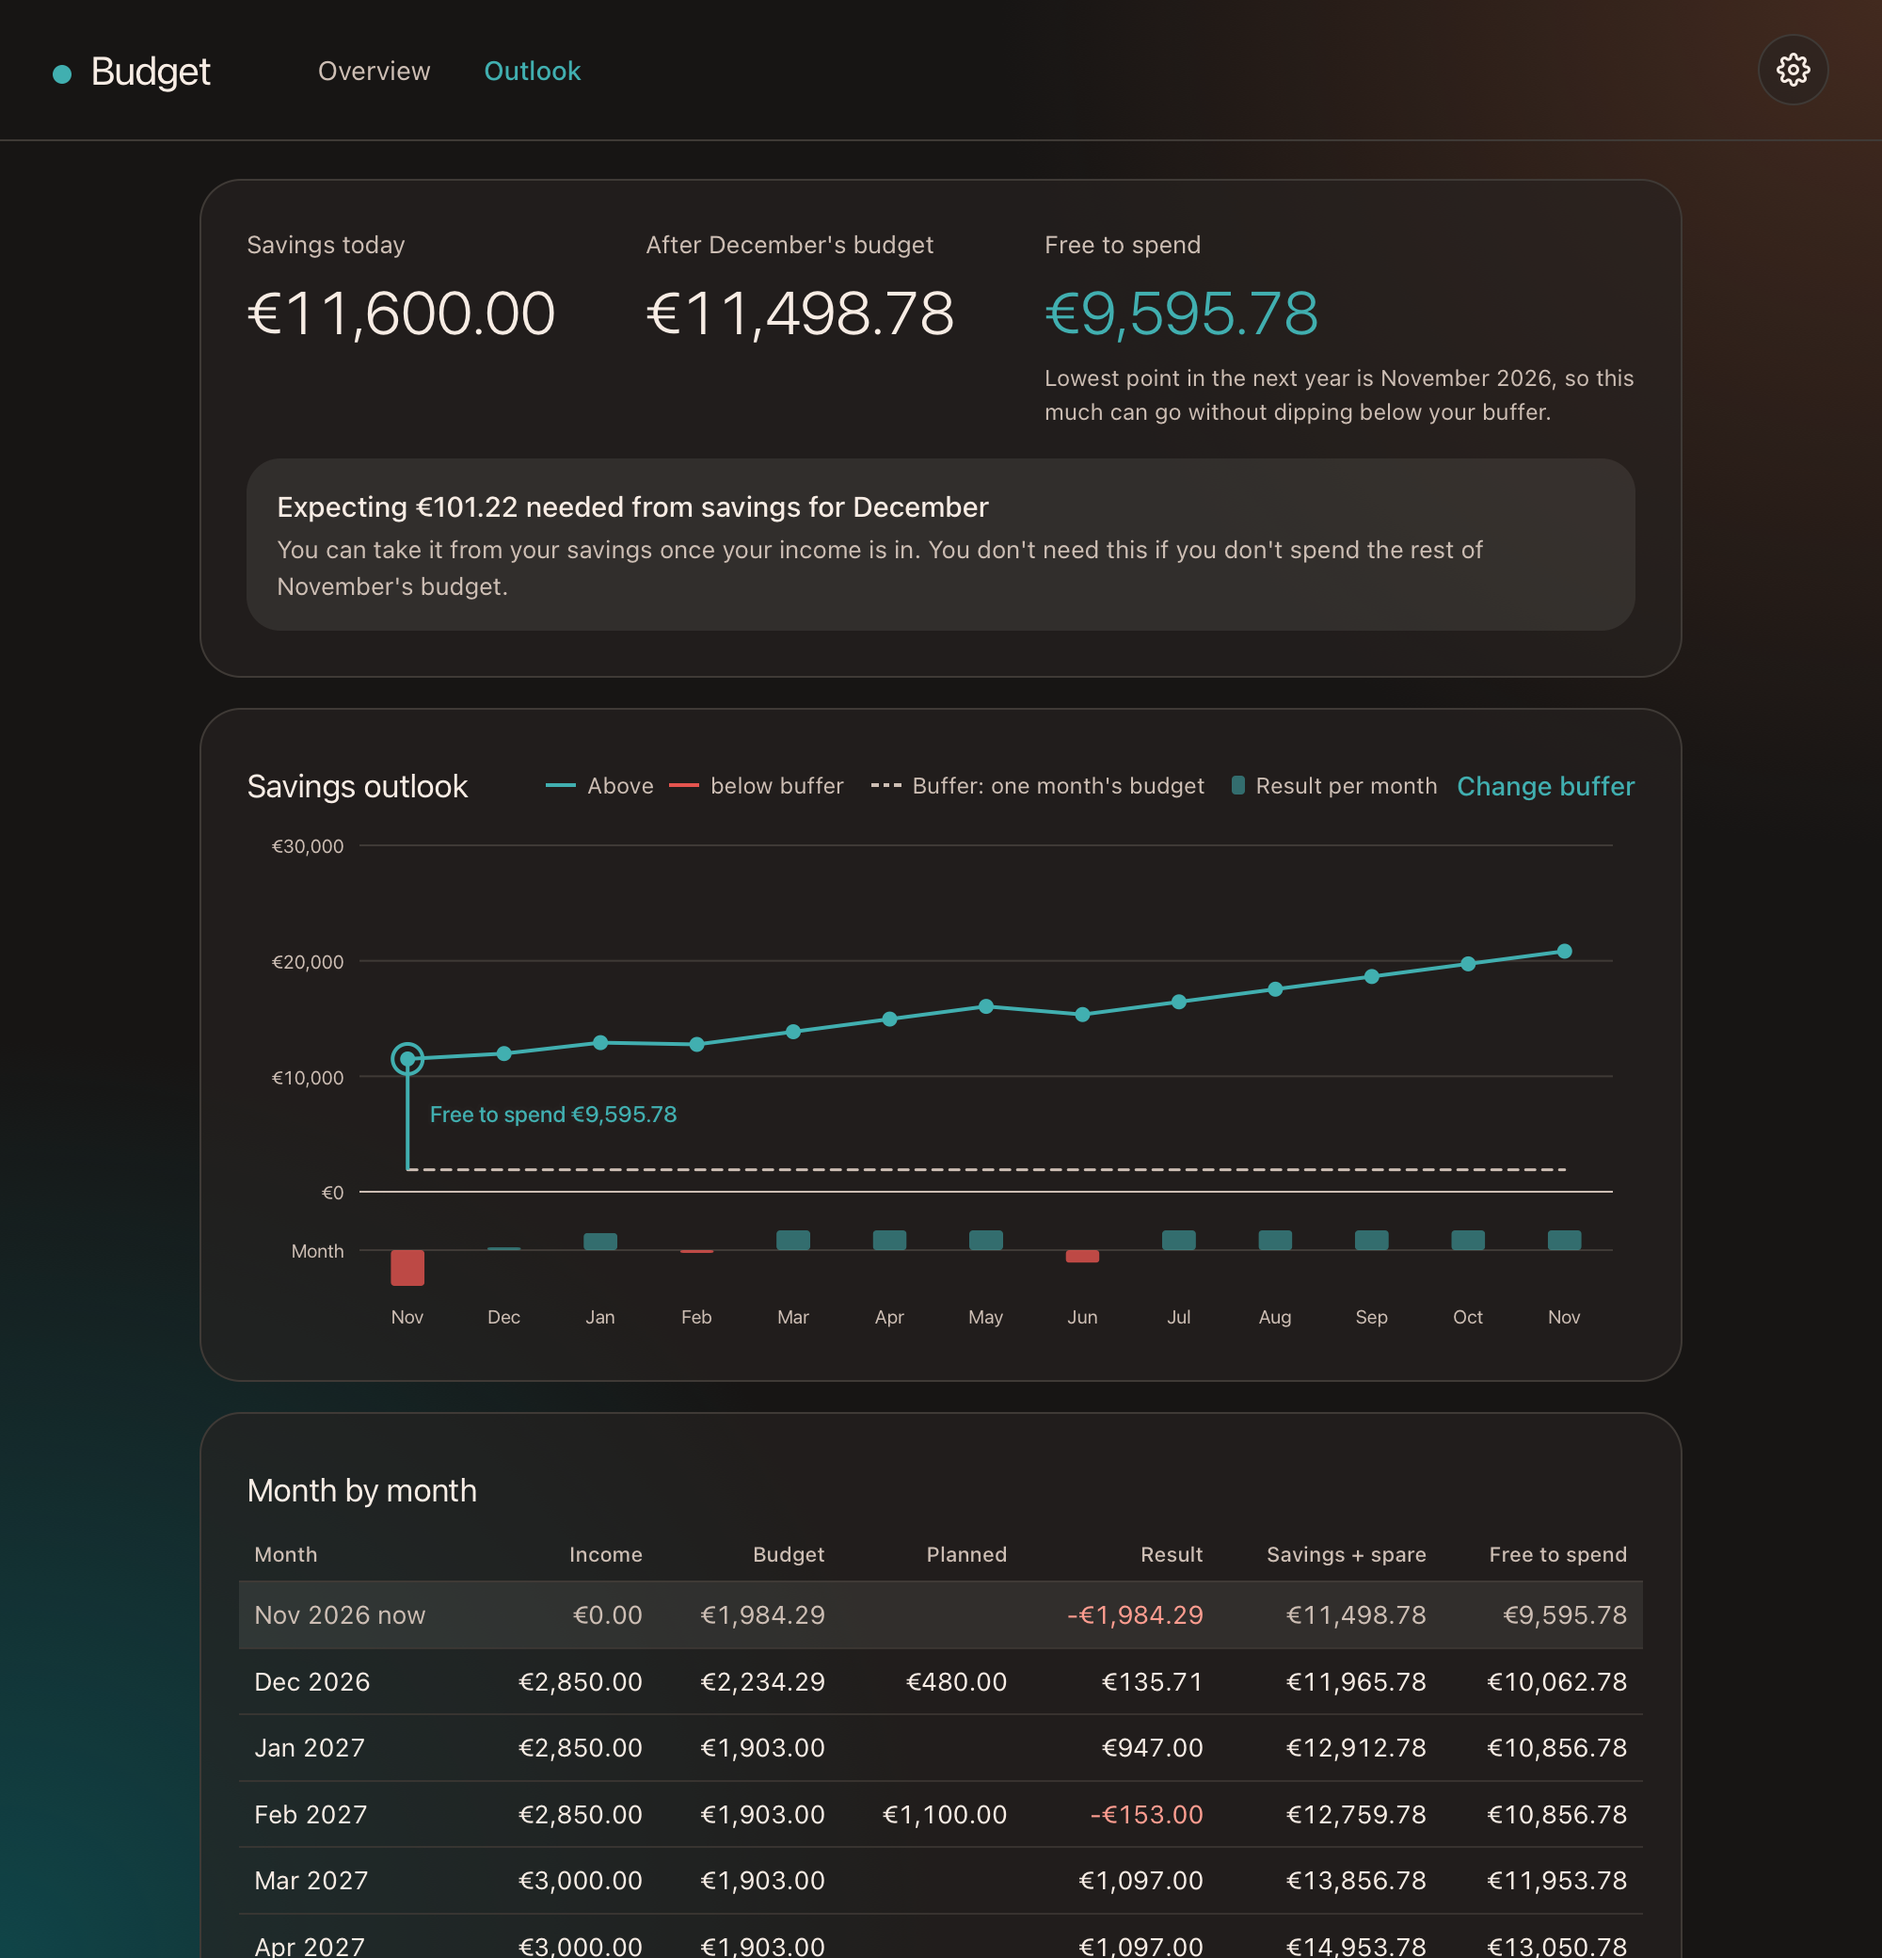
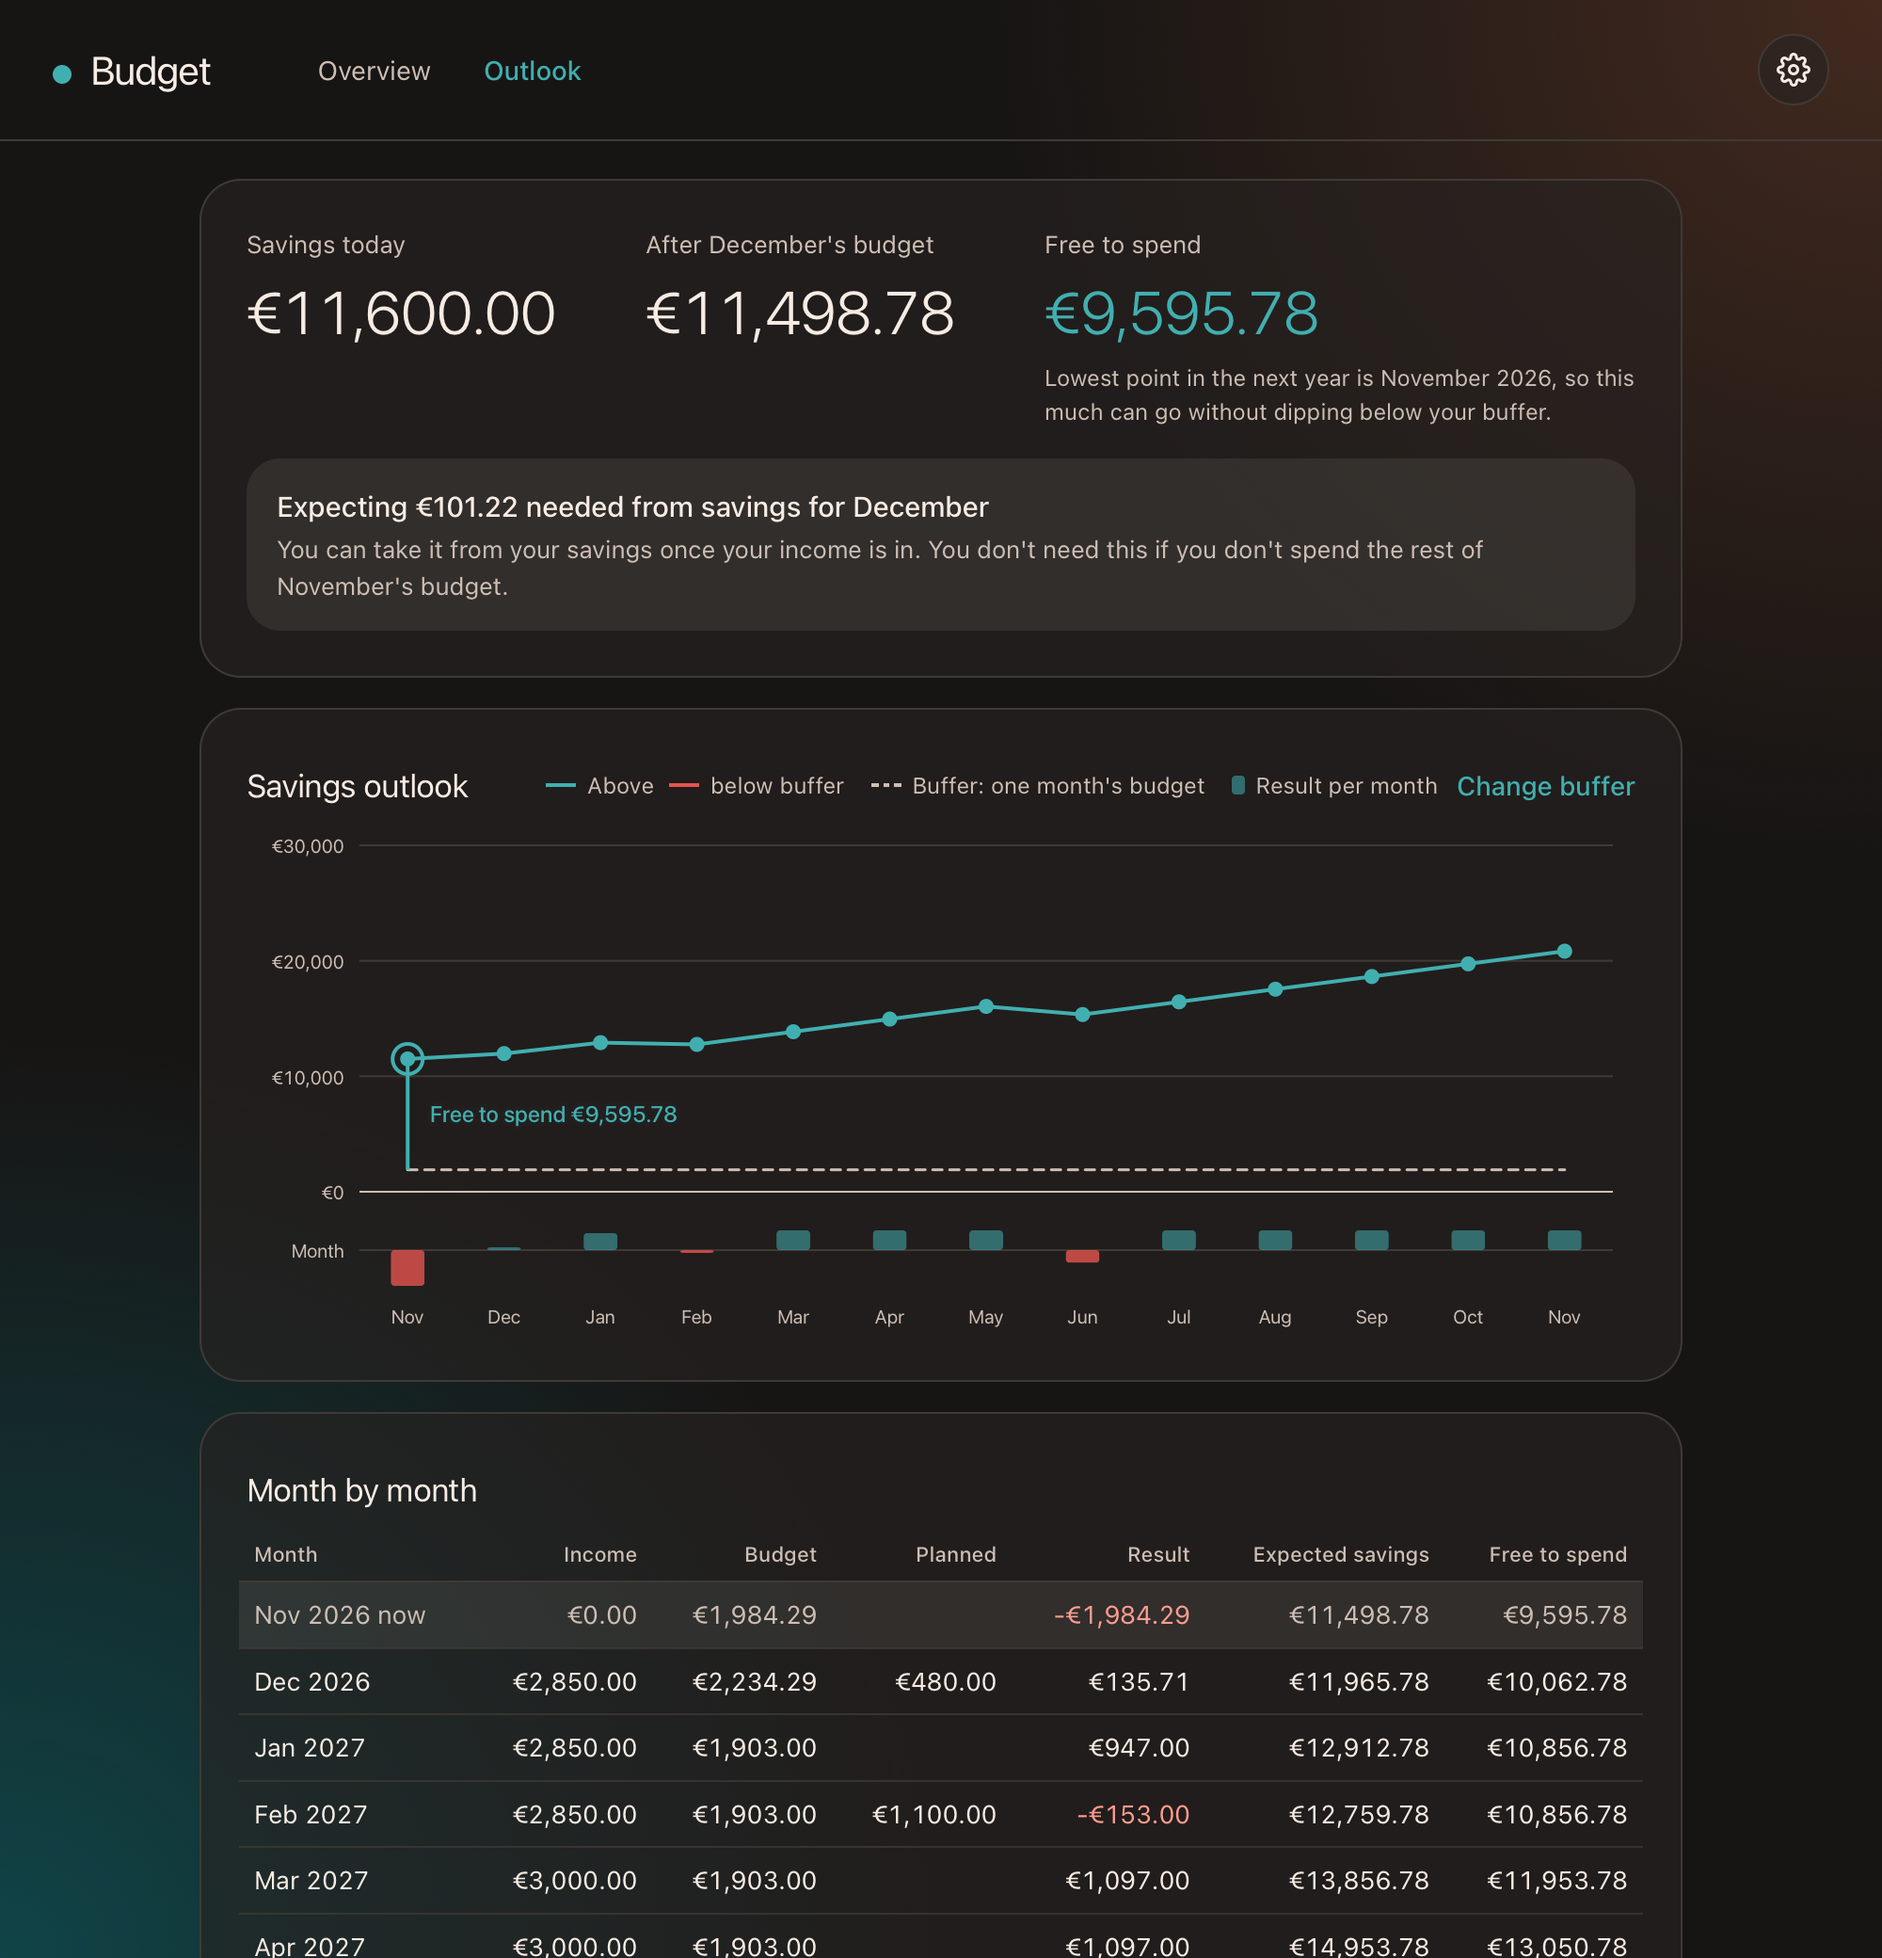
Call savings + spare expected savings and show its layers in the outlook

diff --git a/static/js/outlook.js b/static/js/outlook.js
@@ -48,7 +48,7 @@ export async function renderOutlook() {
 
   const cell = (v, cls = "") => `<td class="${cls}">${v === undefined ? "—" : money(v)}</td>`;
   $("#outlook-table").innerHTML = `
-    <thead><tr><th>Month</th><th>Income</th><th>Budget</th><th>Planned</th><th>Result</th><th title="Your savings, plus what's left in your bank after next month's budget">Savings + spare</th><th>Free to spend</th></tr></thead>
+    <thead><tr><th>Month</th><th>Income</th><th>Budget</th><th>Planned</th><th>Result</th><th title="Your savings once each month's leftover is moved to savings (or taken from it when your bank account falls short)">Expected savings</th><th>Free to spend</th></tr></thead>
     <tbody>${rows.map((r) => `<tr class="${r.now ? "now" : ""} ${r.month === projection.low_month ? "low" : ""}">
       <td>${monthName(r.month, "short")}${r.now ? ` <span class="muted">now</span>` : ""}</td>
       ${cell(r.income)}${cell(r.budget)}${r.planned ? cell(r.planned) : "<td></td>"}
@@ -62,7 +62,7 @@ export async function renderOutlook() {
   const low = months.indexOf(projection.low_month);
   const signed = (v) => `${v < 0 ? "−" : "+"}${money(Math.abs(v))}`;
   lineChart($("#outlook-chart"), months, [
-    { name: "Savings + spare", values: savings, cls: "line", against: buffers },
+    { name: "Expected savings", values: savings, cls: "line", against: buffers },
     { name: "Buffer", values: buffers, cls: "line dashed", dots: false },
   ], {
     includeZero: true,
@@ -71,7 +71,11 @@ export async function renderOutlook() {
     bars: { values: rows.map((r) => r.result), label: "Month" },
     tooltip: (i) => `<b>${monthName(months[i])}</b>
       <span>${signed(rows[i].result)} ${i === 0 ? "this month, if the rest of the budget is spent" : "this month"}</span>
-      <span>Savings + spare: ${money(savings[i])}</span><span>Buffer: ${money(buffers[i])}</span>
+      <span>Expected savings: ${money(savings[i])}</span>
+      ${rows[i].above < 0 ? `<span class="tip-bad">${money(-rows[i].above)} below your buffer of ${money(buffers[i])}</span>`
+        : `<span class="tip-layer">Free to spend <b>${money(rows[i].free)}</b></span>
+          <span class="tip-layer">Needed later <b>${money(rows[i].later)}</b></span>
+          <span class="tip-layer">Buffer <b>${money(buffers[i])}</b></span>`}
       ${i === low ? `<span class="muted">Lowest point: ${below ? `${money(-projection.low_above)} below` : `${money(projection.low_above)} above`} your buffer</span>` : ""}`,
   });
 }

diff --git a/static/index.html b/static/index.html
@@ -127,7 +127,7 @@
     <section class="card">
       <div class="section-head"><h3>Month by month</h3></div>
       <div class="table-wrap"><table id="outlook-table" class="outlook-table"></table></div>
-      <p class="muted hist-note">Savings + spare: your savings plus what's left in your bank after next month's budget is set aside. Free to spend: what you can take out that month without your savings dropping below your buffer then or in any later month. Assumes every budget is fully spent. For the current month, Planned is what was spent outside your budgets.</p>
+      <p class="muted hist-note">Expected savings: your savings once each month's leftover is moved to savings (or taken from it when your bank account falls short). Free to spend: what you can take out that month without your savings dropping below your buffer then or in any later month. Assumes every budget is fully spent. For the current month, Planned is what was spent outside your budgets.</p>
     </section>
 
     <section class="card">

diff --git a/static/style.css b/static/style.css
@@ -598,6 +598,9 @@ dialog h2 { font-weight: 400; font-size: 20px; }
 .popover { border-radius: 18px; }
 .month-grid .today, .cal-grid .today { font-weight: 500; text-decoration: underline; text-underline-offset: 3px; }
 .hist-tip { border-radius: 12px; }
+.hist-tip .tip-layer { display: flex; justify-content: space-between; gap: 16px; padding-left: 10px; color: var(--muted); }
+.hist-tip .tip-layer b { color: var(--text); font-weight: 500; font-variant-numeric: tabular-nums; }
+.hist-tip .tip-bad { color: var(--danger); }
 
 .hist-plot .dot { stroke: none; }
 .hist-plot .dot.good { fill: var(--good); }

diff --git a/app/outlook.py b/app/outlook.py
@@ -9,9 +9,10 @@ month's last week; before that it's too early to say.
 
 The projection starts from all money in the bank and savings today plus the income still
 expected this month (assuming the rest of this month's budget is spent). Each coming month adds expected income (plans) and
-subtracts its budgets and planned expenses. "Savings + spare" = savings plus what's left
-in the bank after next month's budget is set aside; free to spend = that amount above
-the buffer, in that month and every later one. The buffer is a number of months of budget, or a fixed amount.
+subtracts its budgets and planned expenses. Expected savings = the savings once the month is
+settled: what's left in the bank after next month's budget is set aside goes to savings (or a
+shortfall comes from it). Free to spend = what's above the buffer in that month and every later
+one; needed later = what's above the buffer now but needed for a dip in a later month. The buffer is a number of months of budget, or a fixed amount.
 """
 from datetime import date, timedelta
 
@@ -158,6 +159,7 @@ def projection(conn):
     for row in reversed(rows):
         lowest = row["above"] if lowest is None else min(lowest, row["above"])
         row["free"] = max(0, lowest)
+        row["later"] = max(0, row["above"]) - row["free"]
     low = min(rows, key=lambda r: r["above"])  # the first of the lowest points
     first_below = next((r["month"] for r in rows if r["above"] < 0), None)
     ready = month_outlook(conn, now, current)  # the same answer as on the overview
